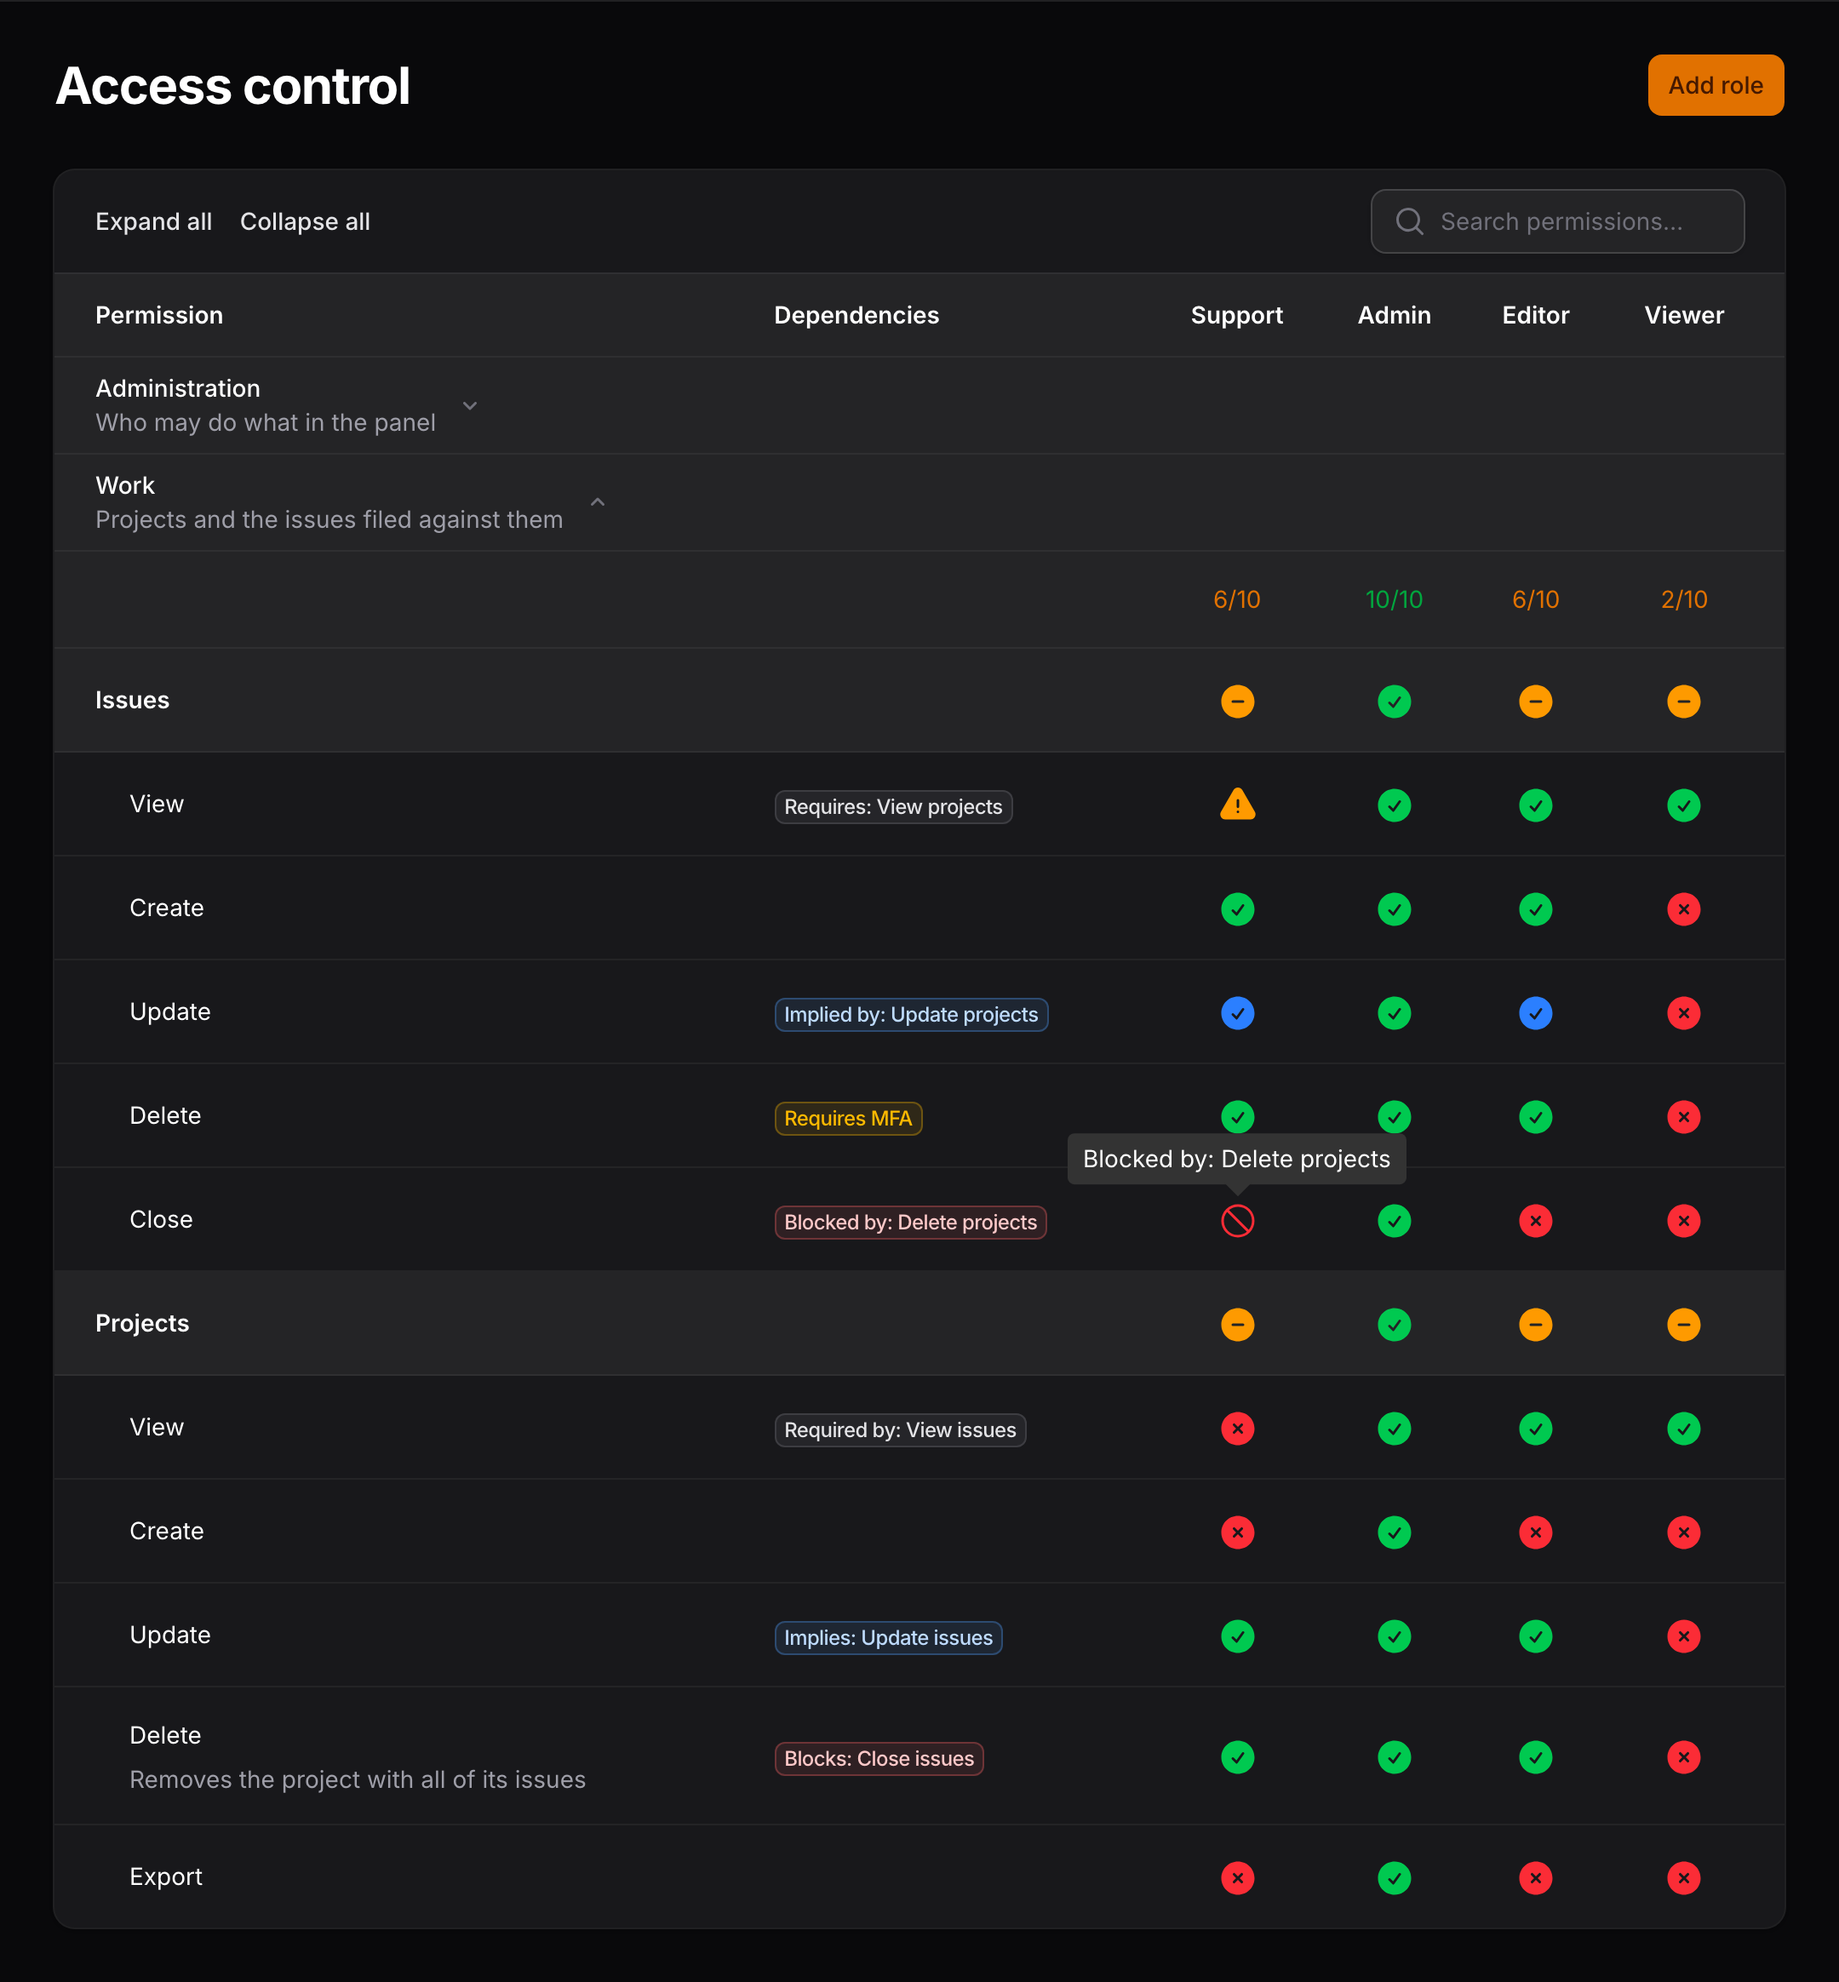
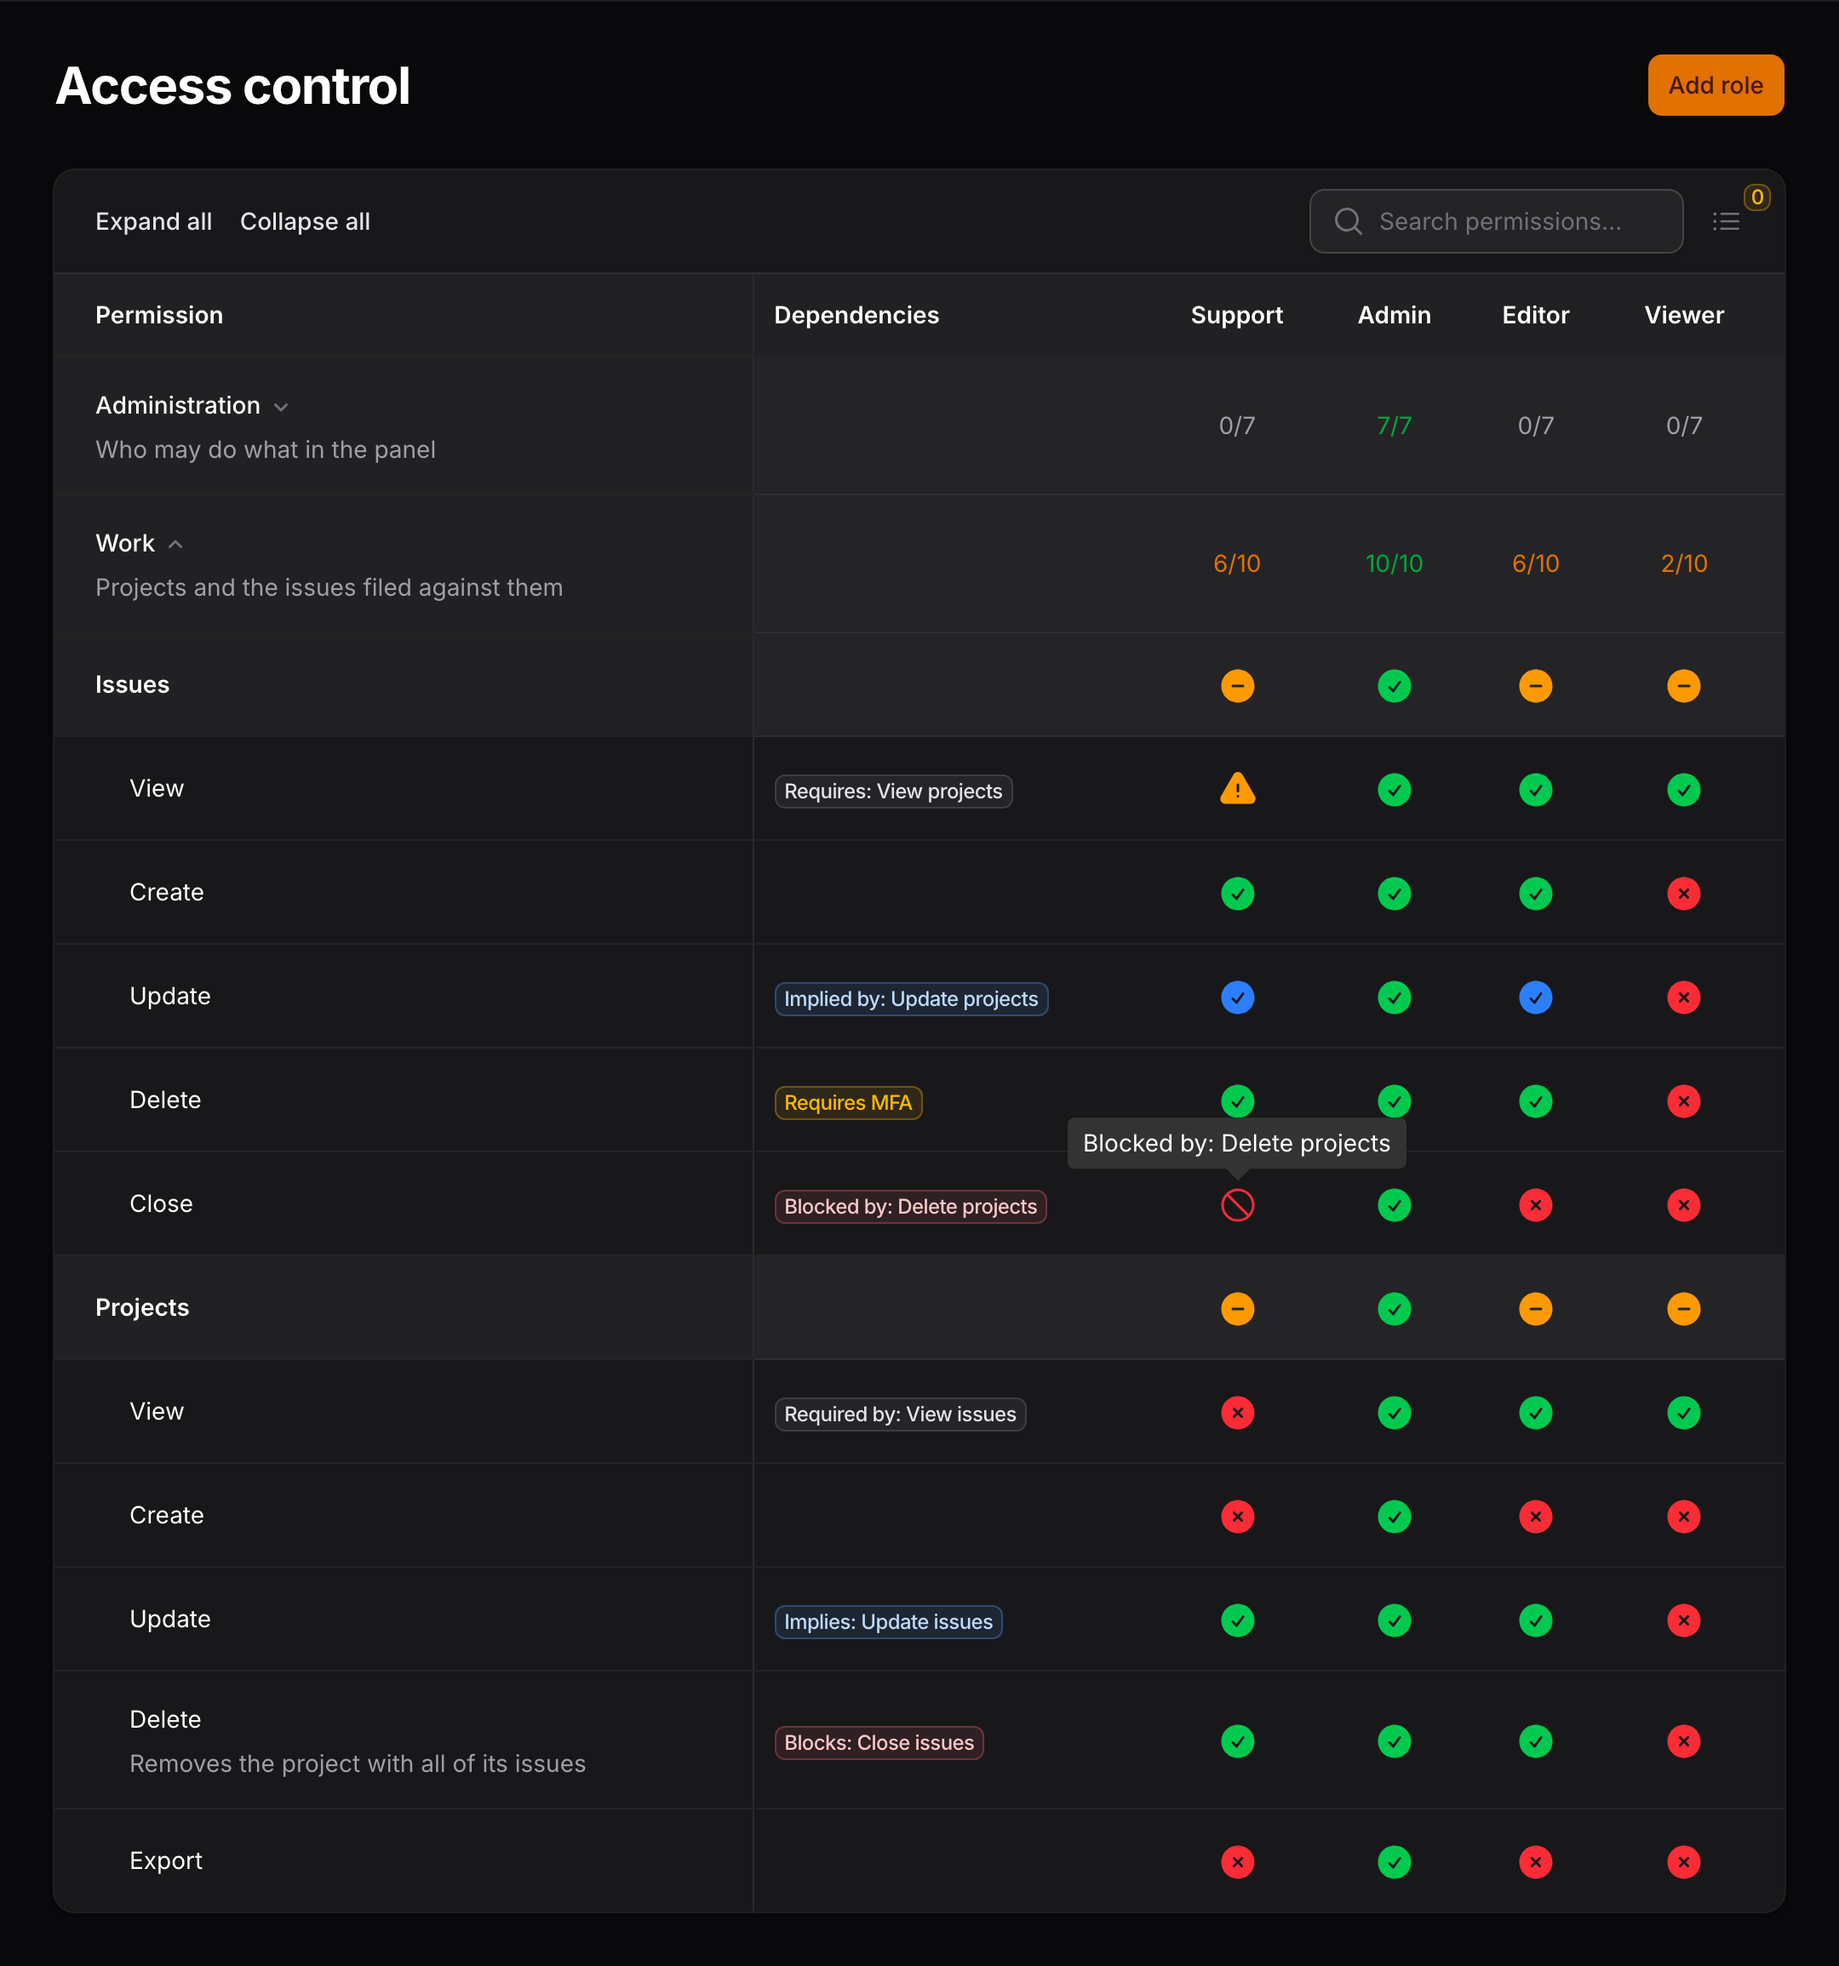
docs: screenshots with group rows

diff --git a/src/Livewire/RolePermissionMatrix.php b/src/Livewire/RolePermissionMatrix.php
@@ -193,6 +193,17 @@ class RolePermissionMatrix extends Component implements HasActions, HasSchemas, 
         return in_array($roleKey, is_array($shown) ? array_map(strval(...), $shown) : $this->defaultShownRoles(), true);
     }
 
+    public function hidesAnyRole(): bool
+    {
+        foreach (array_keys($this->roleOptions()) as $key) {
+            if (! $this->isRoleShown((string) $key)) {
+                return true;
+            }
+        }
+
+        return false;
+    }
+
     /**
      * @return array<string, string>
      */
@@ -222,12 +233,12 @@ class RolePermissionMatrix extends Component implements HasActions, HasSchemas, 
      */
     protected function rolePickerIndicators(array $data): array
     {
-        $total = count($this->roleOptions());
-        $shown = count(array_filter(array_keys($this->roleOptions()), fn (int | string $key): bool => $this->isRoleShown((string) $key)));
-
-        if ($shown === $total) {
+        if (! $this->hidesAnyRole()) {
             return [];
         }
+
+        $total = count($this->roleOptions());
+        $shown = count(array_filter(array_keys($this->roleOptions()), fn (int | string $key): bool => $this->isRoleShown((string) $key)));
 
         return [
             Indicator::make(__('filament-access-control::editor.role_picker.indicator', ['shown' => $shown, 'total' => $total]))

diff --git a/tests/Feature/Livewire/ManyRolesTest.php b/tests/Feature/Livewire/ManyRolesTest.php
@@ -32,6 +32,8 @@ function indicator(int $shown, int $total): string
 it('shows every role until told otherwise', function (): void {
     $matrix = livewire(RolePermissionMatrix::class)->assertDontSee(indicator(4, 4));
 
+    expect($matrix->instance()->hidesAnyRole())->toBeFalse();
+
     foreach ($this->keys as $key) {
         $matrix->assertCanRenderTableColumn('holder_' . $key);
     }
